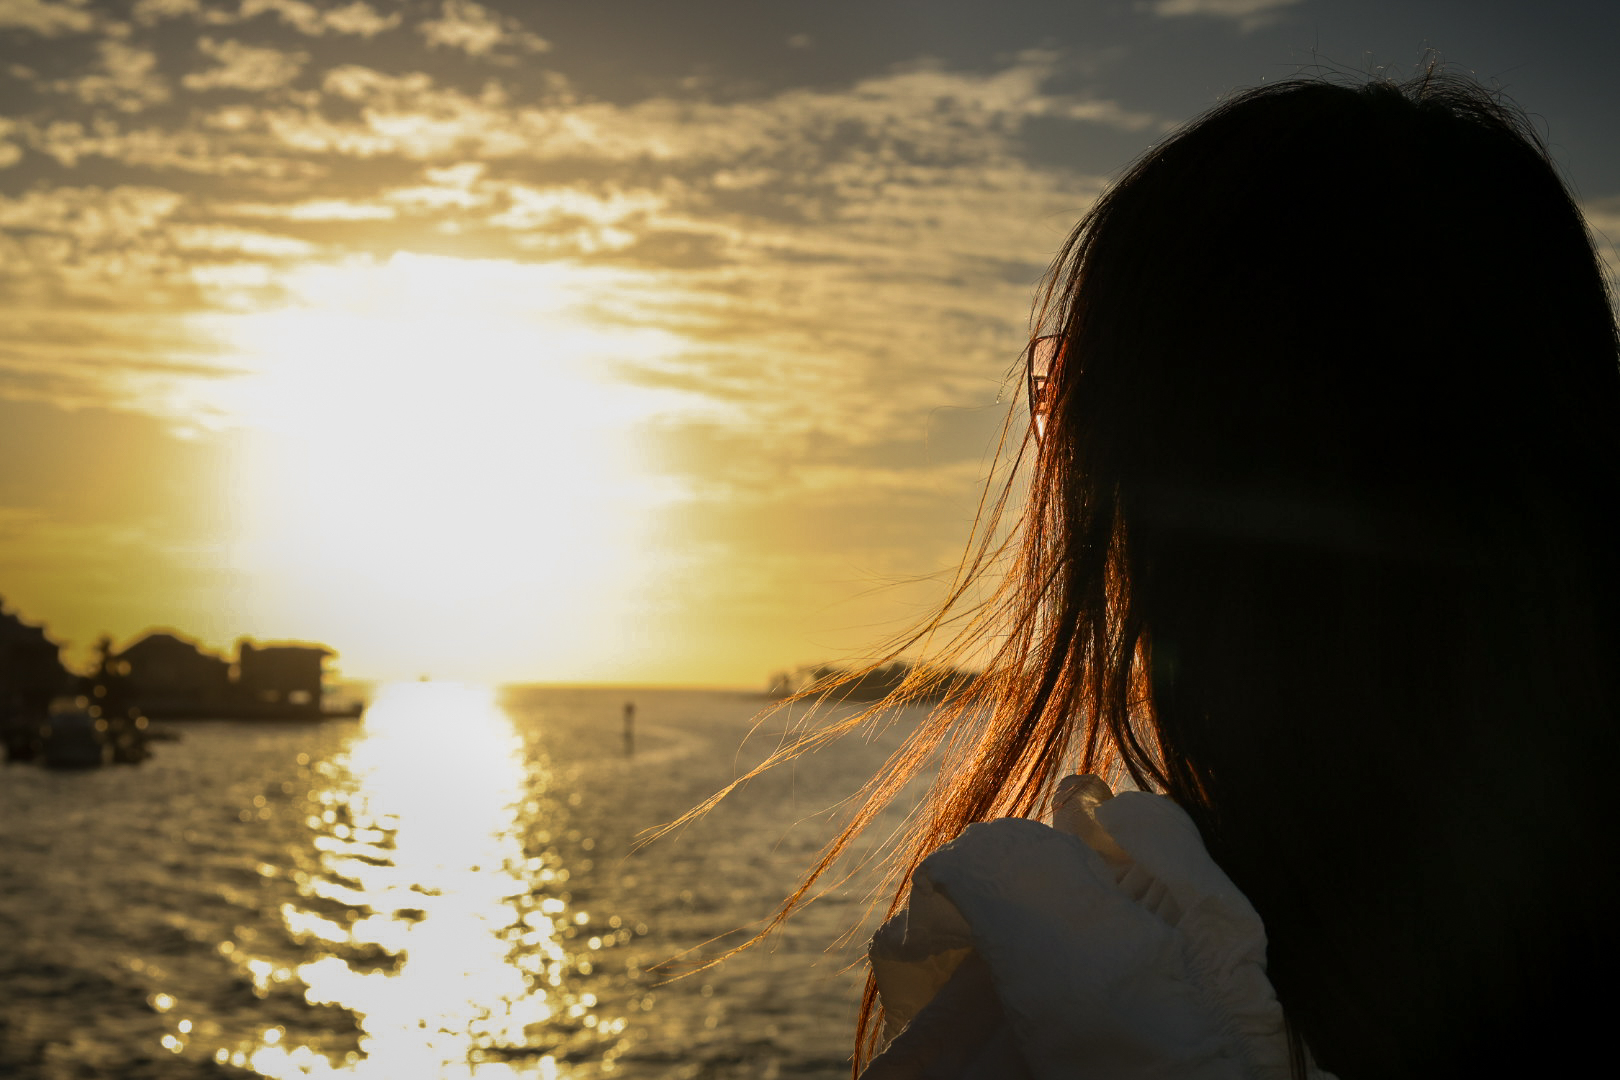
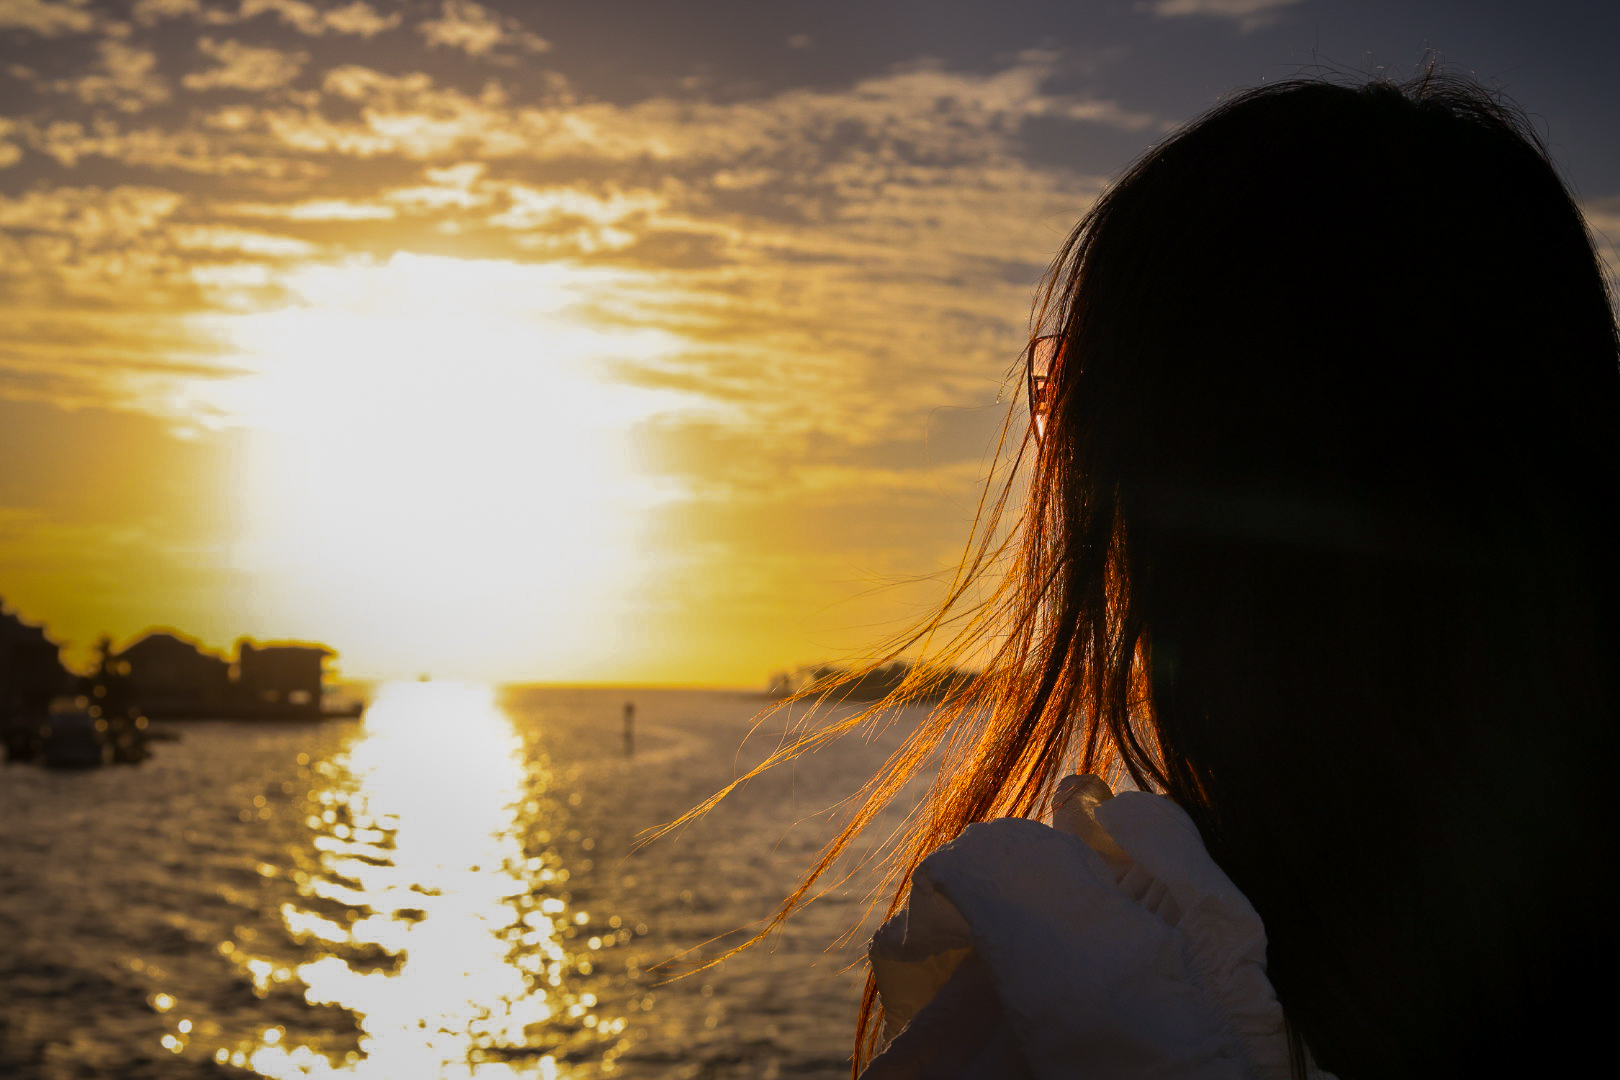
add wedding session and change profile img

diff --git a/src/pages/about/index.js b/src/pages/about/index.js
@@ -1,6 +1,6 @@
 import "./index.css";
 import { Link } from "react-router-dom";
-import picture1 from "../../assets/images/IMG_0812.JPG";
+import picture1 from "../../assets/images/Frank_1.png";
 import picture2 from "../../assets/images/1Y6A8185 - Copy.png";
 // import picture3 from "../../assets/images/UIUC 2022.png";
 import picture4 from "../../assets/images/UI_UX_Genz.png";
@@ -128,13 +128,13 @@ function about() {
             <h1 className="description-1 text-center py-4">
               Commercial Photography:
             </h1>
-            <img
+            {/* <img
               src={picture2}
               className="picture2 img-fluid hover-effect"
               alt="Commercial Photography"
             />
             <br></br>
-            <br></br>
+            <br></br> */}
 
             <img
               src={picture6}
@@ -146,14 +146,12 @@ function about() {
               to="/PhotographyPortfolio"
               className="Photo Portfolio link text-center py-4 "
             >
-              <h2>
-                Frank's Photography Portfolio
-              </h2>
+              <h2>Frank's Photography Portfolio</h2>
             </Link>
 
             <div className="col-md-12 video-showcase text-center">
               <h1 className="description-2 text-center py-4">
-                Video Production:
+                Professional Video Production:
               </h1>
               {/* <a href="https://www.bilibili.com/video/BV1je411j7SY/?vd_source=29129ec6466690e99722869f8f8689c0">
                 <img
@@ -164,6 +162,18 @@ function about() {
               </a> */}
               <br></br>
               <br></br>
+
+              <div className="video-showcase-wedding responsive-iframe-container">
+              <iframe
+                  title="FL-Video"
+                  src="//player.bilibili.com/player.html?aid=751814264&bvid=BV1nk4y1S7KT&cid=1419434134&p=1"
+                  allowFullScreen
+                ></iframe>
+              </div>
+              <a href="https://www.bilibili.com/video/BV1nk4y1S7KT/?vd_source=29129ec6466690e99722869f8f8689c0" className="video-link_wedding">
+                <h4 className="video-descrip py-4">Boston Wedding, Cambridge 2024</h4>
+              </a>
+
 
               <div className="video-showcase-uiuc responsive-iframe-container">
                 <iframe
@@ -182,11 +192,13 @@ function about() {
                 href="https://www.bilibili.com/video/BV1je411j7SY/?vd_source=29129ec6466690e99722869f8f8689c0"
                 className="video-link_uiuc "
               >
-                <h4 className="video-descrip py-4">University of Illinois Urbana-Champaign</h4>
+                <h4 className="video-descrip py-4">
+                  University of Illinois Urbana-Champaign
+                </h4>
               </a>
               <br></br>
               <br></br>
-              <div className="video-showcase-FL responsive-iframe-container">
+              {/* <div className="video-showcase-FL responsive-iframe-container">
                 <iframe
                   title="FL-Video"
                   src="//player.bilibili.com/player.html?aid=825543064&bvid=BV1Wg4y1L7zJ&cid=1114529437&p=1"
@@ -205,14 +217,13 @@ function about() {
               >
                 <h4 className="video-descrip py-4">Florida-Key West</h4>
               </a>
+            </div> */}
             </div>
             <Link
               to="/VideoProductionPortfolio"
               className="VideoProductionPortfolio link text-center py-4 "
             >
-              <h2>
-                Frank's Video Production  Portfolio
-              </h2>
+              <h3>Frank's Video Production Portfolio</h3>
             </Link>
           </div>
         </div>

diff --git a/src/assets/photoCategories.js b/src/assets/photoCategories.js
@@ -11,12 +11,15 @@ import portrait9 from './Photo_Portfolio/Portrait/1Y6A4140.jpg';
 import portrait10 from './Photo_Portfolio/Portrait/1Y6A6378.JPG';
 import portrait11 from './Photo_Portfolio/Portrait/1Y6A6380.JPG';
 import portrait12 from './Photo_Portfolio/Portrait/1Y6A6698.jpg';
-import portrait13 from './Photo_Portfolio/Portrait/8WWJ.PNG';
-import portrait14 from './Photo_Portfolio/Portrait/IMG_0685.jpg';
-import portrait15 from './Photo_Portfolio/Portrait/IMG_0717.jpg';
-import portrait16 from './Photo_Portfolio/Portrait/IMG_1508.jpg';
-import portrait17 from './Photo_Portfolio/Portrait/IMG_6138.jpg';
-import portrait18 from './Photo_Portfolio/Portrait/IMG_7780.jpg';
+import portrait13 from './Photo_Portfolio/Portrait/8ce0e3caec362f4a8e9a63545eb3a98d.jpg';
+import portrait14 from './Photo_Portfolio/Portrait/8WWJ.PNG';
+import portrait15 from './Photo_Portfolio/Portrait/IMG_0685.jpg';
+import portrait16 from './Photo_Portfolio/Portrait/IMG_0717.jpg';
+import portrait17 from './Photo_Portfolio/Portrait/IMG_1508.jpg';
+import portrait18 from './Photo_Portfolio/Portrait/IMG_6138.jpg';
+import portrait19 from './Photo_Portfolio/Portrait/IMG_6637.jpg';
+import portrait20 from './Photo_Portfolio/Portrait/IMG_7780.jpg';
+
 import landscape0 from './Photo_Portfolio/Landscape/90a8407e6b611658ae8f2f7748c173dc.jpg';
 import landscape1 from './Photo_Portfolio/Landscape/IMG_3105.JPG';
 import landscape2 from './Photo_Portfolio/Landscape/IMG_3106.jpg';
@@ -30,10 +33,23 @@ import landscape9 from './Photo_Portfolio/Landscape/IMG_6382.PNG';
 import landscape10 from './Photo_Portfolio/Landscape/IMG_6383.PNG';
 import landscape11 from './Photo_Portfolio/Landscape/IMG_6384.PNG';
 import landscape12 from './Photo_Portfolio/Landscape/IMG_6385.PNG';
+
 import commercial0 from './Photo_Portfolio/Commercial/1Y6A8185 - Copy.png';
 import commercial1 from './Photo_Portfolio/Commercial/Harvard_2023_Pictures_1.png';
 import commercial2 from './Photo_Portfolio/Commercial/IMG_3452.JPG';
+import commercial3 from './Photo_Portfolio/Commercial/II.jpg';
 
-export const portraitPhotos = [portrait0, portrait1, portrait2, portrait3, portrait4, portrait5, portrait6, portrait7, portrait8, portrait9, portrait10, portrait11, portrait12, portrait13, portrait14, portrait15, portrait16, portrait17, portrait18];
+import wedding0 from './Photo_Portfolio/Wedding/5c01e6c34f3a3f7ce20ec1d7d84be445.jpg';
+import wedding1 from './Photo_Portfolio/Wedding/f0d66ce234a02d32c01ad7e312dd6be6.jpeg';
+import wedding2 from './Photo_Portfolio/Wedding/IMG_8969.JPG';
+import wedding3 from './Photo_Portfolio/Wedding/IMG_8980.JPG';
+import wedding4 from './Photo_Portfolio/Wedding/IMG_8981.JPG';
+import wedding5 from './Photo_Portfolio/Wedding/IMG_8991.jpeg';
+import wedding6 from './Photo_Portfolio/Wedding/IMG_8992.jpeg';
+import wedding7 from './Photo_Portfolio/Wedding/IMG_8996.jpeg';
+
+
+export const portraitPhotos = [portrait0, portrait1, portrait2, portrait3, portrait4, portrait5, portrait6, portrait7, portrait8, portrait9, portrait10, portrait11, portrait12, portrait13, portrait14, portrait15, portrait16, portrait17, portrait18, portrait19, portrait20];
 export const landscapePhotos = [landscape0, landscape1, landscape2, landscape3, landscape4, landscape5, landscape6, landscape7, landscape8, landscape9, landscape10, landscape11, landscape12];
-export const commercialPhotos = [commercial0, commercial1, commercial2];
+export const commercialPhotos = [commercial0, commercial1, commercial2, commercial3];
+export const weddingPhotos = [wedding0, wedding1, wedding2, wedding3, wedding4, wedding5, wedding6, wedding7];

diff --git a/src/routes.js b/src/routes.js
@@ -10,12 +10,13 @@ import PhotographyPortfolio from "./pages/Photography portfolio";
 import Portrait from "./pages/Photography portfolio/Portrait";
 import PhotographyLandscape from "./pages/Photography portfolio/Landscape";
 import PhotographyCommercial from "./pages/Photography portfolio/PhotoCommericial";
+import Wedding from "./pages/Photography portfolio/Wedding";
 
 import VideoProductionPortfolio from "./pages/VideoProductionPortfolio";
 import VideoLandscape from "./pages/VideoProductionPortfolio/VideoLandscape";
 import Vlog from "./pages/VideoProductionPortfolio/Vlog";
 import VideoCommericial from "./pages/VideoProductionPortfolio/VideoCommericial";
-
+import VideoWedding from "./pages/VideoProductionPortfolio/wedding";
 
 function WebsiteRoutes() {
 //   let { currentUser } = useSelector((state) => state.user);
@@ -29,10 +30,13 @@ function WebsiteRoutes() {
       <Route path="/PhotographyPortfolio/Portrait" element={<Portrait />} />
       <Route path="/PhotographyPortfolio/PhotographyLandscape" element={<PhotographyLandscape />} />
       <Route path="/PhotographyPortfolio/PhotographyCommercial" element={<PhotographyCommercial />} />
+      <Route path="/PhotographyPortfolio/Wedding" element={<Wedding />} />
+
       <Route path="/VideoProductionPortfolio" element={<VideoProductionPortfolio/>} />
       <Route path="/VideoProductionPortfolio/VideoLandscape" element={<VideoLandscape />} />
       <Route path="/VideoProductionPortfolio/Vlog" element={<Vlog />} />
       <Route path="/VideoProductionPortfolio/VideoCommericial" element={<VideoCommericial/>} />
+      <Route path="/VideoProductionPortfolio/wedding" element={<VideoWedding />} />
     </Routes>
   );
 }

diff --git a/src/pages/Photography portfolio/index.js b/src/pages/Photography portfolio/index.js
@@ -6,6 +6,7 @@ import { Link } from "react-router-dom";
 import img1 from "../../assets/Photo_Portfolio/1Y6A0489.jpg";
 import img2 from "../../assets/Photo_Portfolio/90a8407e6b611658ae8f2f7748c173dc.jpg";
 import img3 from "../../assets/Photo_Portfolio/Harvard_2023_Pictures_1.png";
+import img4 from "../../assets/Photo_Portfolio/Wedding/IMG_8980.JPG";
 
 // PhotographyPortfolio.js
 // ... import statements ...
@@ -27,16 +28,23 @@ function PhotographyPortfolio() {
             <h3 className="category-name text-center">Landscape</h3>
           </Link>
         </div>
+        </div>
+        <div className="row"> 
         <div className="col">
           <Link to="/PhotographyPortfolio/PhotoGraphyCommercial" className="photo-portfolio-link">
             <img src={img3} alt="Commercial" className="photo-img" />
             <h3 className="category-name text-center">Commercial</h3>
           </Link>
         </div>
+        <div className="col">
+          <Link to="/PhotographyPortfolio/Wedding" className="photo-portfolio-link">
+            <img src={img4} alt="Wedding" className="photo-img" />
+            <h3 className="category-name text-center">Wedding</h3>
+          </Link>
+          </div>
       </div>
     </div>
   );
 }
 
 export default PhotographyPortfolio;
-

diff --git a/src/pages/Photography portfolio/Wedding/index.js b/src/pages/Photography portfolio/Wedding/index.js
@@ -1,0 +1,31 @@
+import React from 'react';
+import { weddingPhotos } from '../../../assets/photoCategories';
+import { weddingDescriptions } from '../../../assets/weddingDescriptions';
+
+const Wedding = () => {
+    // Combine the photos with their descriptions
+    const photoData = weddingPhotos.map((src, index) => {
+      const descriptionObj = weddingDescriptions.find(desc => desc.src === src) || {};
+      return { ...descriptionObj, src };
+    });
+  
+    return (
+      <div className="container">
+        <h1 className="title text-center py-4">Wedding</h1>
+        <div className="row">
+          {photoData.map((photo, index) => (
+            <div key={index} className="col-md-4 col-sm-6 mb-4 photo-item">
+              <img
+                src={photo.src}
+                className="img-fluid hover-effect"
+                alt={photo.description || `Commercial Photo ${index}`}
+              />
+              <p className="photo-description">{photo.description || 'No description provided.'}</p>
+            </div>
+          ))}
+        </div>
+      </div>
+    );
+  }
+
+export default Wedding;

diff --git a/src/pages/VideoProductionPortfolio/wedding/index.js b/src/pages/VideoProductionPortfolio/wedding/index.js
@@ -1,0 +1,29 @@
+import React from "react";
+
+const wedding = () => {
+  return (
+    <div className="video-portfolio container">
+      <h1 className="title text-center py-4">Wedding</h1>
+      <div className="video-showcase-FL responsive-iframe-container">
+        <iframe
+          src="//player.bilibili.com/player.html?aid=751814264&bvid=BV1nk4y1S7KT&cid=1419434134&p=1"
+          scrolling="no"
+          border="0"
+          frameborder="no"
+          framespacing="0"
+          allowfullscreen="true"
+        >
+          {" "}
+        </iframe>
+      </div>
+      <a
+        href="https://www.bilibili.com/video/BV1nk4y1S7KT/?vd_source=29129ec6466690e99722869f8f8689c0"
+        className="Boston Wedding-BU_1 "
+      >
+        <h4 className="category-name text-center py-4">Boston Wedding, Cambridge 2024</h4>
+      </a>
+    </div>          
+  );
+};
+
+export default wedding;

diff --git a/src/pages/VideoProductionPortfolio/index.js b/src/pages/VideoProductionPortfolio/index.js
@@ -42,6 +42,18 @@ const VideoProductionPortfolio = () => {
               <h2 className="category-name">Vlog</h2>
             </Link>
           </div>
+          <div className="col-md-5 text-center">
+            <Link to="/VideoProductionPortfolio/wedding" className="photo-portfolio-link">
+              <div className="video-showcase-FL responsive-iframe-container">
+                <iframe
+                  title="FL-Video"
+                  src="//player.bilibili.com/player.html?aid=751814264&bvid=BV1nk4y1S7KT&cid=1419434134&p=1"
+                  allowFullScreen
+                ></iframe>
+              </div>
+              <h2 className="category-name">Wedding</h2>
+            </Link>
+            </div>
         </div>
       </div>
     );

diff --git a/src/assets/weddingDescriptions.js b/src/assets/weddingDescriptions.js
@@ -1,0 +1,12 @@
+import { weddingPhotos } from './photoCategories';
+
+export const weddingDescriptions = [
+    { src: weddingPhotos[0], description: 'SHOT TAKEN BY FRANK' },
+    { src: weddingPhotos[1], description: 'SHOT TAKEN BY FRANK' },
+    { src: weddingPhotos[2], description: 'SHOT TAKEN BY FRANK' },
+    { src: weddingPhotos[3], description: 'SHOT TAKEN BY FRANK' },
+    { src: weddingPhotos[4], description: 'SHOT TAKEN BY FRANK' },
+    { src: weddingPhotos[5], description: 'SHOT TAKEN BY FRANK' },
+    { src: weddingPhotos[6], description: 'SHOT TAKEN BY FRANK' },
+    { src: weddingPhotos[7], description: 'SHOT TAKEN BY FRANK' },
+];

diff --git a/src/assets/commercialDescriptions.js b/src/assets/commercialDescriptions.js
@@ -4,6 +4,7 @@ import { commercialPhotos } from './photoCategories';
 export const commercialDescriptions = [
   { src: commercialPhotos[0], description: 'Private Commerical Jewerly' },
   { src: commercialPhotos[1], description: 'Dancer at Havard 2023 spring festival' },
-  { src: commercialPhotos[2], description: 'Ivy League Spring festival' },
+  { src: commercialPhotos[2], description: 'Surfer, RI' },
+  { src: commercialPhotos[3], description: 'Ivy League Spring festival' },
   // ... and so on for each commercial photo
 ];
